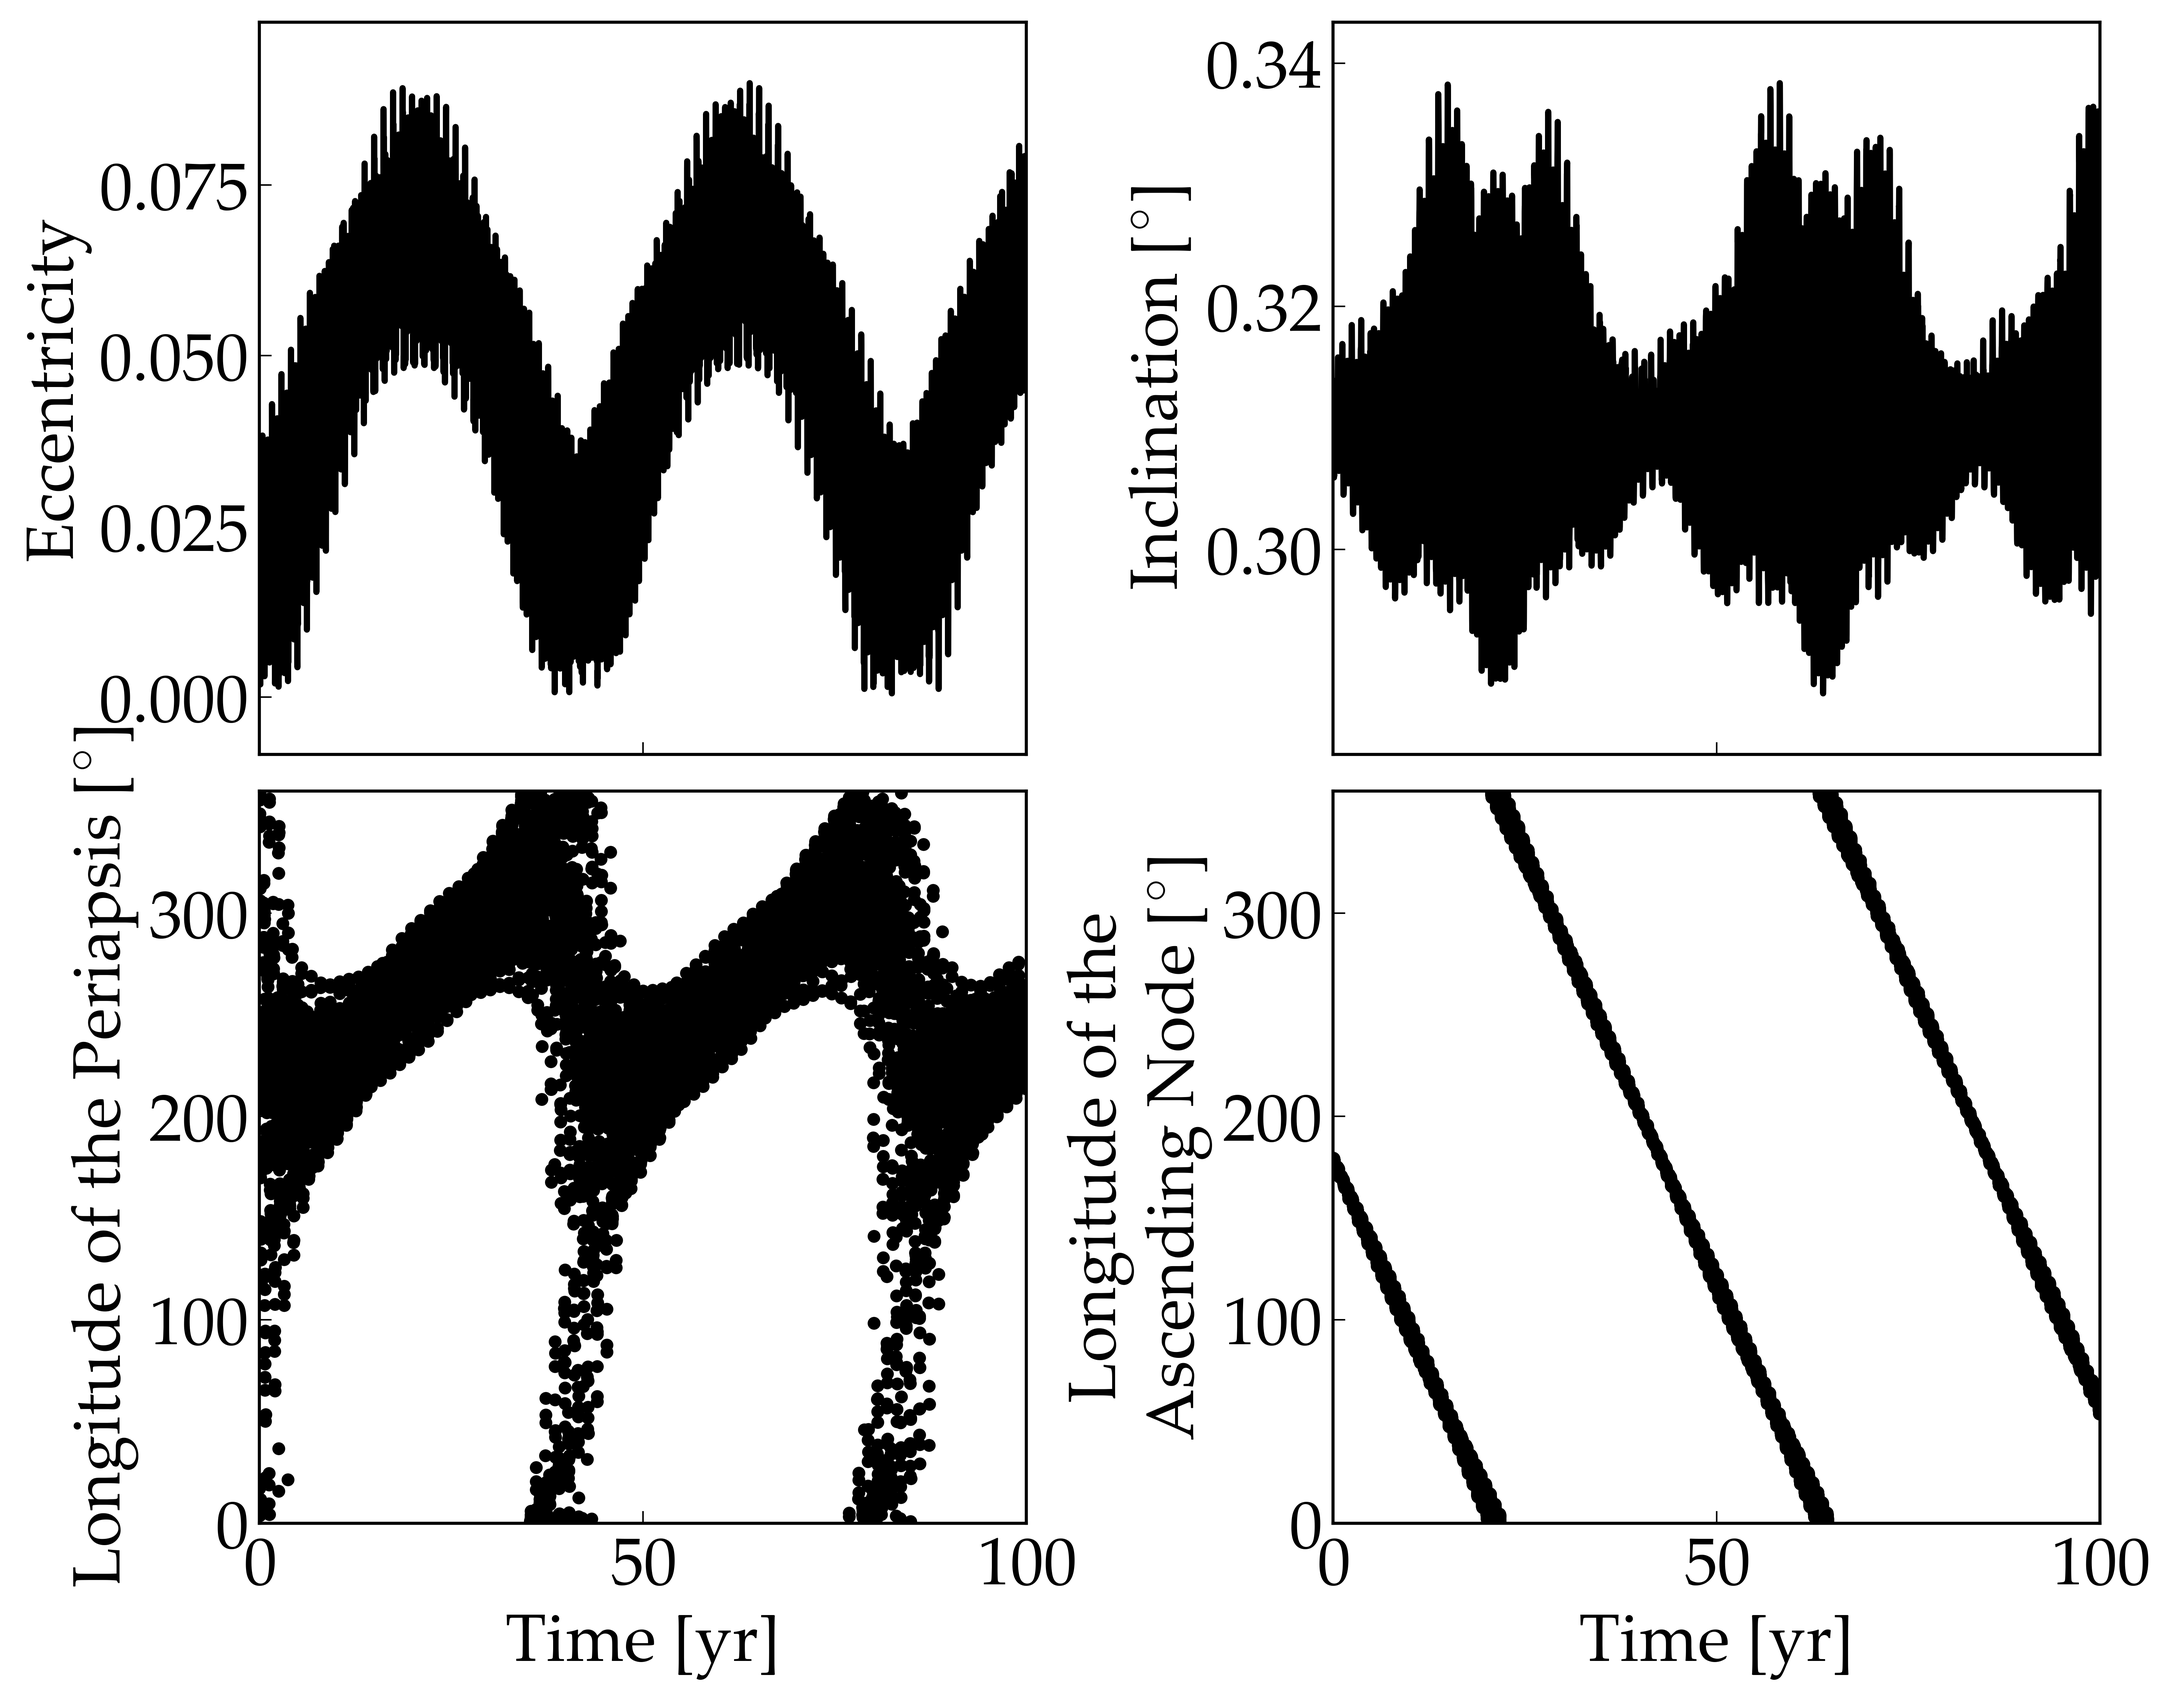
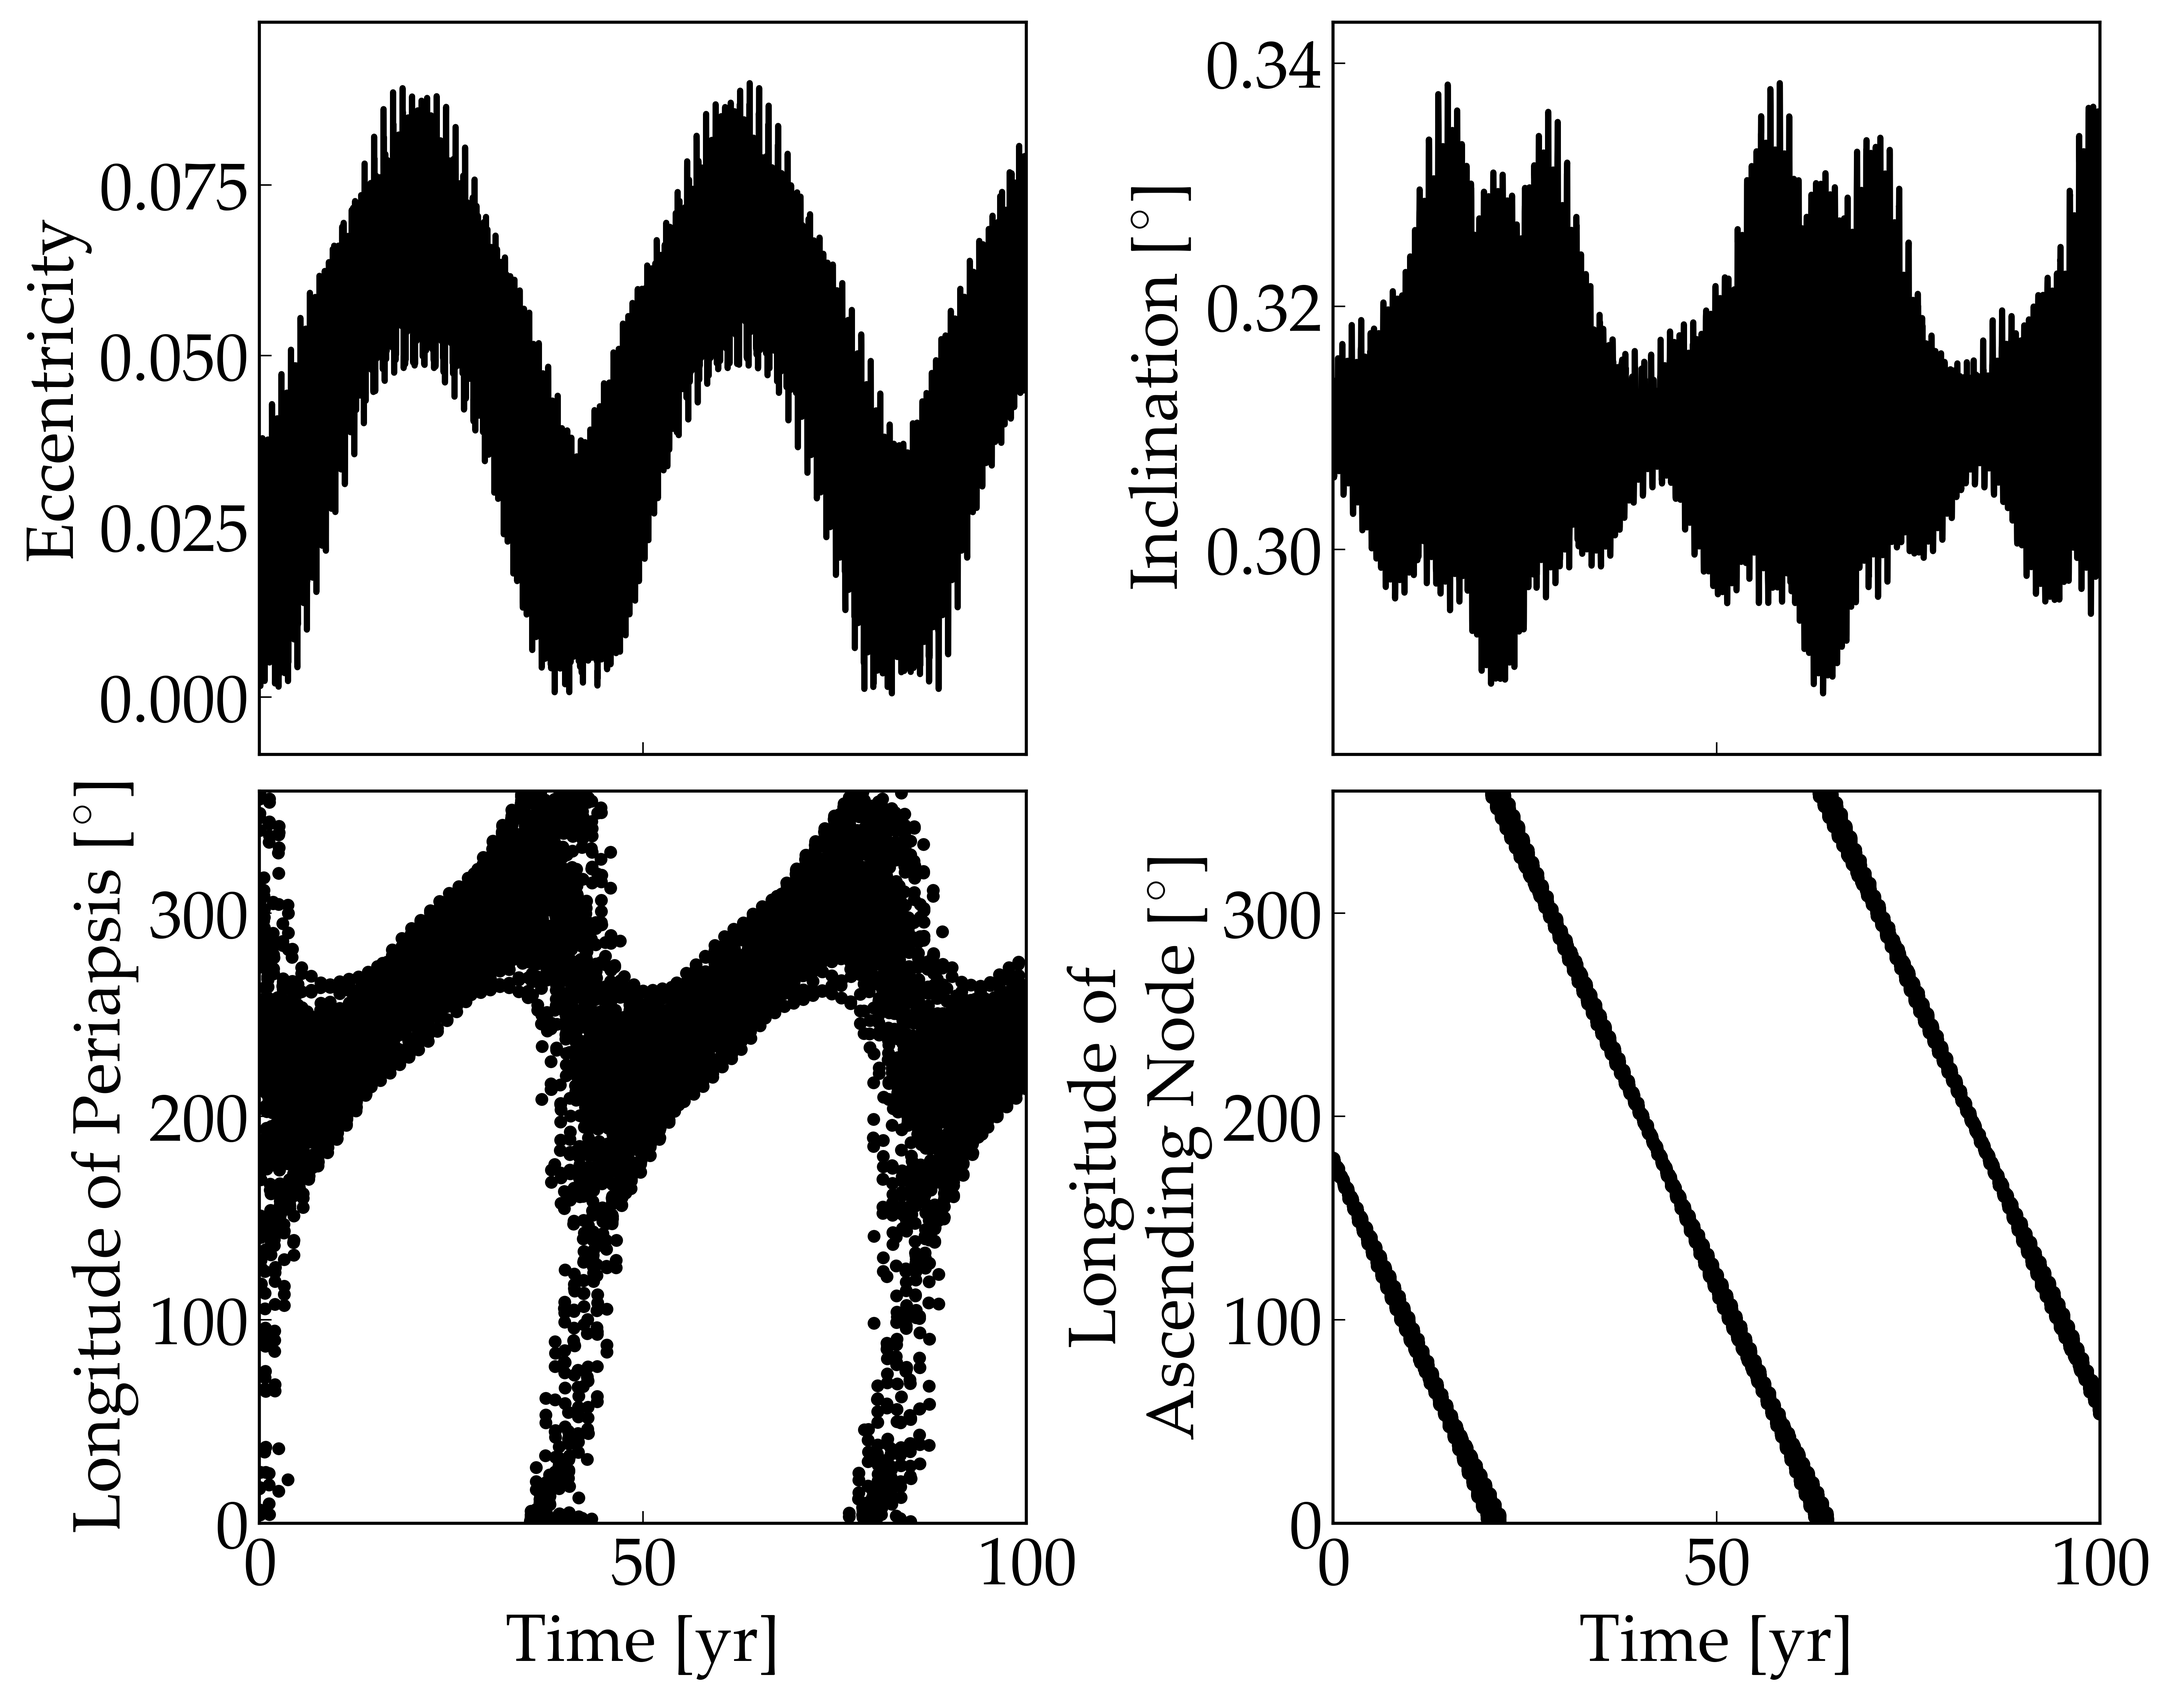
Tidied examples/SS_NBody figure.
Tidied examples/CircumbinaryOrbit figure.

Changed region(s): [[0.0312, 0.4041, 0.0624, 0.9326], [0.499, 0.5285, 0.5302, 0.8083]]

diff --git a/examples/CircumbinaryOrbit/makeplot.py b/examples/CircumbinaryOrbit/makeplot.py
@@ -63,7 +63,7 @@ axes[1,0].scatter(time, varpi, color=color, s=10, zorder=-1)
 axes[1,0].set_xlim(time.min(),time.max())
 axes[1,0].set_ylim(0,360)
 axes[1,0].set_xlabel("Time [yr]")
-axes[1,0].set_ylabel("Longitude of the Periapsis [$^{\circ}$]")
+axes[1,0].set_ylabel("Longitude of Periapsis [$^{\circ}$]")
 
 ## Lower right: Longitude of the ascending node ##
 axes[1,1].scatter(time, longa, color=color, s=10, zorder=-1)
@@ -72,7 +72,7 @@ axes[1,1].scatter(time, longa, color=color, s=10, zorder=-1)
 axes[1,1].set_xlim(time.min(),time.max())
 axes[1,1].set_ylim(0,360)
 axes[1,1].set_xlabel("Time [yr]")
-axes[1,1].set_ylabel("Longitude of the\n Ascending Node [$^{\circ}$]")
+axes[1,1].set_ylabel("Longitude of\n Ascending Node [$^{\circ}$]")
 
 fig.tight_layout()
 fig.subplots_adjust(wspace=0.4)

diff --git a/examples/SS_NBody/makeplot.py b/examples/SS_NBody/makeplot.py
@@ -59,7 +59,7 @@ hnEarth.Mass = 1.
 
 #hnarray = (hnEarth.Time <= EndTime)
 #array   = (hnEarth.Time <= EndTime)
-fig,([ax1,ax2],[ax3,ax4],[ax5,ax6])=plt.subplots(3,2,figsize=[18,12])
+fig,([ax1,ax2],[ax3,ax4],[ax5,ax6])=plt.subplots(3,2,figsize=[12,16])
 
 ax1.plot(hnEarth.Time,hnEarth.a,color=vpl.colors.red)
 ax1.plot(SS.Earth.Time,SS.Earth.SemiMajorAxis,'k')

diff --git a/examples/SS_NBody/README.rst b/examples/SS_NBody/README.rst
@@ -38,4 +38,4 @@ Expected output
    :align: center
 
    Evolution of Earth's orbital elements in a Solar System simulation over the next
-   100,000 years. Blak is VPLanet results; red is HNBody.
+   100,000 years. Black is VPLanet results; red is HNBody.
